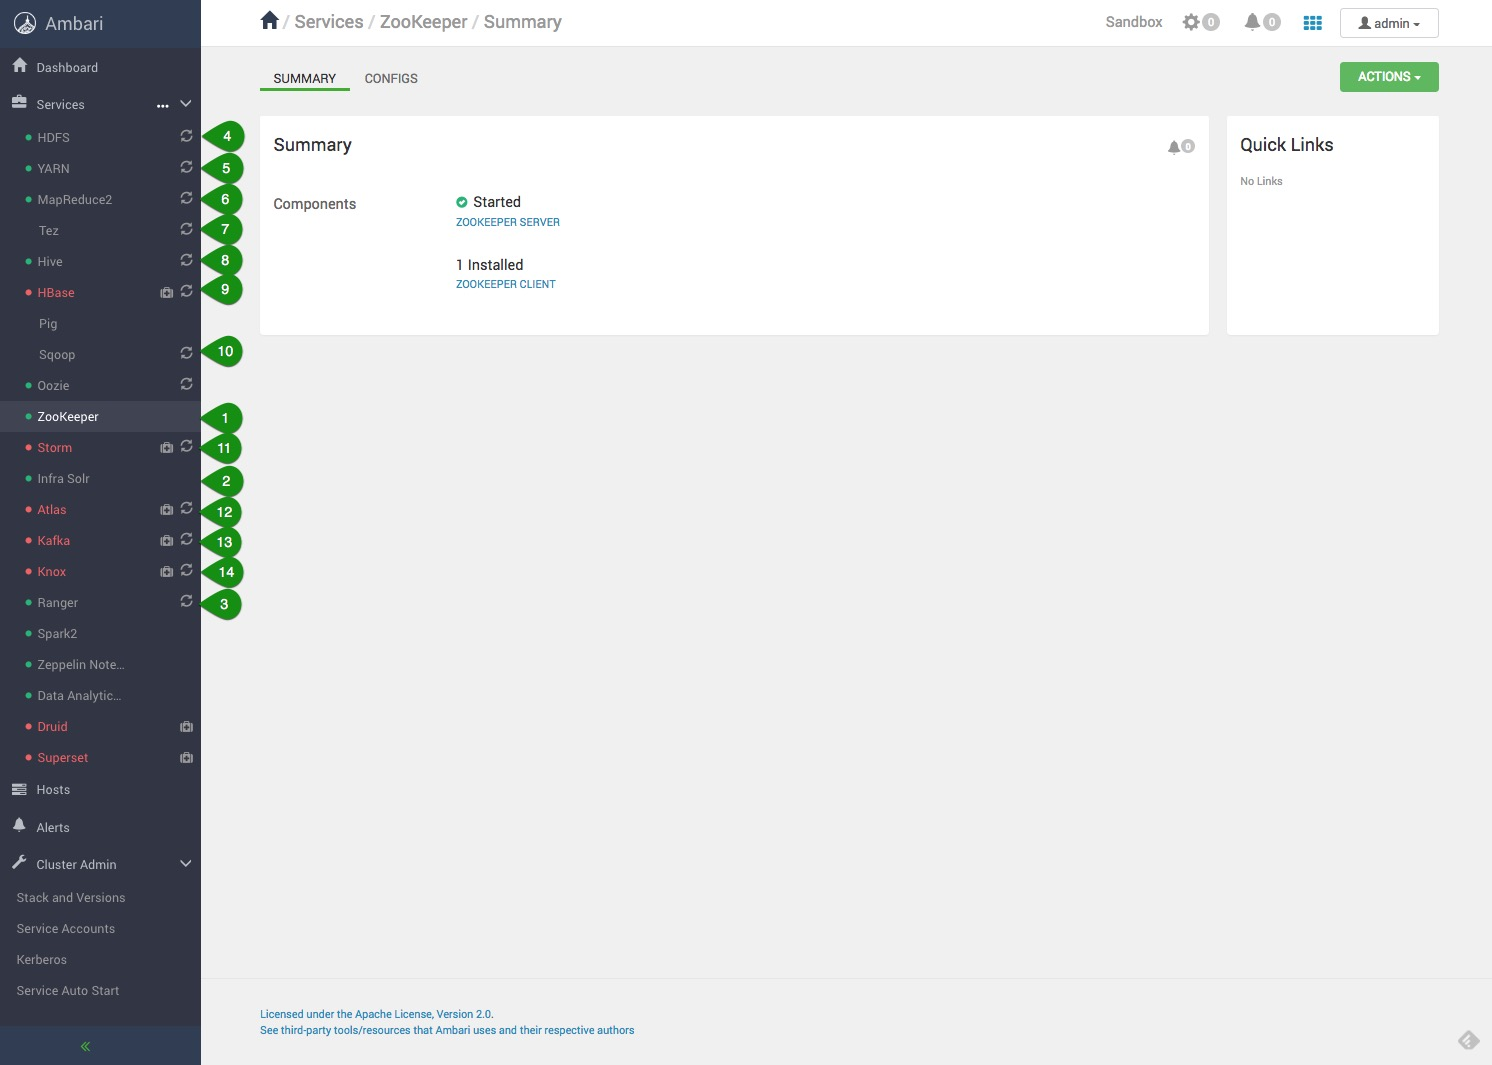
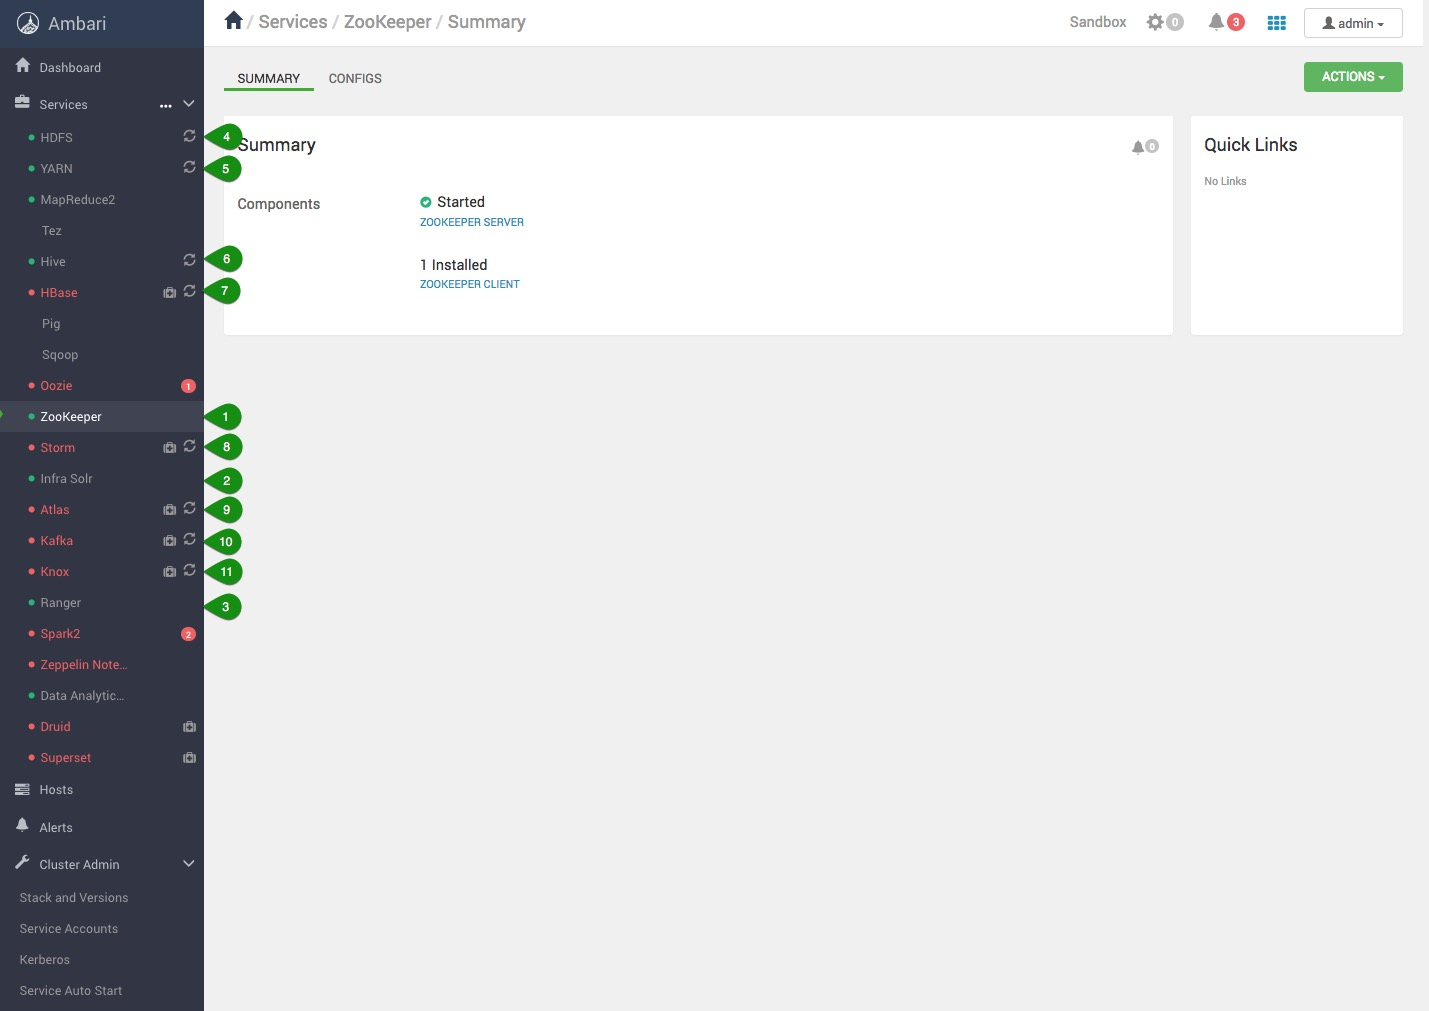
Minor structure modifcations

diff --git a/tutorials/hdp/tag-based-policies-with-apache-ranger-and-apache-atlas/tutorial-1.md b/tutorials/hdp/tag-based-policies-with-apache-ranger-and-apache-atlas/tutorial-1.md
@@ -20,8 +20,7 @@ In this section of the tutorial we will prepare the Sandbox environment by enabl
 - [Concepts](#concepts)
 - [Enable Ranger Audit to Solr](#enable-Ranger-Audit-to-Solr)
 - [Stop Services not Used in Tag Based Policies](#stop-services-not-used-in-tag-based-policies)
-- [Restart All Services Affected](#restart-all-services-affected)
-- [Stop Services Not Used in Tag Based Policies](#stop-services-not-used-in-tag-based-policies)
+- [Restart Affected Services](#restart-affected-services)
 - [Verify "ranger_audits" is created in Ambari Infra Solr](#verify-"ranger_audits"-is-created-in-ambari-infra-solr)
 - [Summary](#summary)
 - [Further Reading](#further-reading)
@@ -48,7 +47,7 @@ Maria is our developer and thus has limited access to our cluster's services.
 
 In order to set up our environment we will use our cluster administrator **admin**.
 
-## Enable Ranger audit to Solr
+## Enable Ranger Audit to Solr
 
 Use your HDP **admin** credentials to sign in.
 
@@ -56,9 +55,9 @@ Use your HDP **admin** credentials to sign in.
 
 | Username | Password |
 |:---:|:---:|
-| admin | **setup process |
+| admin | **your password |
 
-> [Setup Ambari Admin Password Manually](https://hortonworks.com/tutorial/learning-the-ropes-of-the-hortonworks-sandbox/#admin-password-reset)
+If this is your first time setting up the **admin** password follow the instructions in [Setup Ambari Admin Password Manually](https://hortonworks.com/tutorial/learning-the-ropes-of-the-hortonworks-sandbox/#admin-password-reset).
 
 Once in Ambari click on the **Ranger** service on the service Stack on the left and follow these steps to enable audit to Solr:
 
@@ -77,11 +76,25 @@ Finally, click **Proceed Anyway** on the **Save Configuration Changes** window, 
 
 ![enable-audit-to-solr-and-solrcloud](assets/images/enable-ranger-audit-to-solr-and-solrcloud.jpg)
 
-## Restart All Services Affected
+## Stop Services Not Used in Tag Based Policies
 
-After Enabling Ranger Audit to Solr and SolrCloud, there are services that will need to be restarted for the changes to take effect on our sandbox:
+Before we restart all the services that were affected by enabling the Audit to Solr and SolrCloud, we need to stop services that will not be used as part of the Tag Based Policies tutorial. We do this because we will be starting additional services, our sandbox is meant to have limited resources and might not respond well to having many services on at the same time.
 
-![affected-services](assets/images/affected-services.jpg)
+We will start with Oozie. Go to the Oozie service, click on the **Stop** button located in **Service Actions**.
+
+![stop-oozie-service](assets/images/stop-oozie-service.jpg)
+
+1\. Stop the following services in this order:
+
+- Oozie
+- Spark2
+- Zeppelin
+
+![stop_services_not_needed](assets/images/stop-services-not-needed.jpg)
+
+## Restart Affected Services
+
+ Enabling Solr and SolrCloud affected other services on the stack. In order for the changes that we made to take effect on our sandbox we need to restart the affected services. We will start with Zookeeper.
 
 ### Restart the Zookeeper Service
 
@@ -101,47 +114,13 @@ Click **OK** button in bottom right corner.
 
 3\. Once Zookeeper finishes restarting, you will be able to see the components health.
 
-![zookeeper-service-restart-result](assets/images/hdfs-service-restart-result.jpg)
+![zookeeper-service-restart-result](assets/images/zookeeper-service-restart-result.jpg)
 
-<!---You may notice there is one component that still needs to be restarted. **SNameNode** says **Stopped**. Click on its name.
+4\. Let's get back to Ambari Dashboard, click on the Ambari icon ![ambari_icon](assets/images/ambari_icon.jpg) in the top left corner.
 
-You are taken to the **Hosts Summary** page. It lists all components related to every service within the Ambari stack for the Sandbox host.
+### Restart the Remaining Services
 
-4\. Search for **SNameNode**, click on **Stopped** dropdown button, click **Start**.
-
-![host_components](assets/images/host_components.jpg)
-
-Starting SNameNode is like restarting it since it was initially off, it will be refreshed from the recent changes from Ranger Audit config.--->
-
-5\. Let's get back to Ambari Dashboard, click on the Ambari icon ![ambari_icon](assets/images/ambari_icon.jpg) in the top left corner.
-
-<!--_ 6\. Head back to **HDFS** Service's **Summary** page. Click on **Service Actions** dropdown, click **Turn off Maintenance Mode**. 
-
-7\. When the **Confirmation** window appears, confirm you want to **Turn off Maintenance Mode**, click **OK**.
-
-Next, an **Information** window will appear conveying the result, click **OK**.--->
-
-Now **HDFS** service has been successfully restarted. Initially, we did **Restart All**, which restarted all components.
-
-## Stop Services Not Used in Tag Based Policies
-
-Before we can restart the rest of the remaining services, we need to stop services that will not be used as part of the Tag Based Policies tutorial. We do this because we will be starting additional services, our sandbox is meant to have limited resources and might not respond well to having many services on at the same time.
-
-Stopping a service is a similar process as we did before, but instead of using **Restart All**, click on the **Stop** button located in **Service Actions**.
-
-![stop-oozie-service](assets/images/stop-oozie-service.jpg)
-
-1\. Stop the following services in this order:
-
-- Oozie
-- Spark2
-- Zeppelin
-
-![stop_services_not_needed](assets/images/stop-services-not-needed.jpg)
-
-### Restart the Other Affected Services from Ranger Config
-
-1\. We will follow a similar approach as we did to turn off services to restart the remaining affected services.
+1\. We will follow a similar approach as we did with the Zookeeper service to restart all the remaining services.
 
 Restart the remaining services in this order:
 
@@ -149,33 +128,26 @@ Restart the remaining services in this order:
 - Ranger
 - HDFS
 - YARN
-- MapReduce2
-- Tez
 - Hive
-- HBase (Turn Off Maintenance Mode then restart HBase)
-- Sqoop
-- Storm (Turn Off Maintenance Mode then restart Storm)
-- Atlas (Turn Off Maintenance Mode then restart Atlas)
-- Kafka (Turn off Maintenance Mode then restart Kakfa)
-- Knox
+- HBase (Turn Off Maintenance Mode then Restart All HBase)
+- Storm (Turn Off Maintenance Mode then Restart All Storm)
+- Atlas (Turn Off Maintenance Mode then Restart All Atlas)
+- Kafka (Turn off Maintenance Mode then Restart All Kakfa)
+- Knox  (Turn off Maintenance Mode then Restart All Knox)
 
 ![services-left-to-restart](assets/images/services-left-to-restart.jpg)
 
-If **Knox** doesn't re-start due to the **KNOX GATEWAY** failing, then:
+If **Knox** doesn't restart due to the **KNOX GATEWAY** failing, then:
 
-1\. Click on **Knox Gateway**
+- Click on **Knox Gateway**
 
-2\. Find **Knox Gateway** under components and Start **Knox Gateway** 
+- Find **Knox Gateway** under components and Start **Knox Gateway**
 
-3\. Go back to Knox's **Host Actions** and **Resstart All Components**
+- Go back to Knox's **Host Actions** and **Restart All Components**
 
 2\. In your **Background Operations Running** window, it should show that all the above services are being restarted.
 
-![remaining-services-restarted](assets/images/remaining-services-restarted.jpg)
-
-![remaining-services-restart-result1](assets/images/remaining-services-restart-result1.jpg)
-
-> Note: **Atlas Metadata Server** might fail to restart, all you need to do is go to the component and individually start it
+![remaining-services-restart-result1](assets/images/remaining-services-restart-result.jpg)
 
 ### Verify "ranger_audits" is created in Ambari Infra Solr
 

diff --git a/tutorials/hdp/tag-based-policies-with-apache-ranger-and-apache-atlas/tutorial-2.md b/tutorials/hdp/tag-based-policies-with-apache-ranger-and-apache-atlas/tutorial-2.md
@@ -238,7 +238,7 @@ we will use it to log into Atlas.
 
 [sandbox-hdp.hortonworks.com:21000](http://sandbox-hdp.hortonworks.com:21000/)
 
-username & password : **admin/admin123**
+username & password : **admin/hortonworks1**
 
 ![atlas_login](assets/images/atlas-login.jpg)
 
